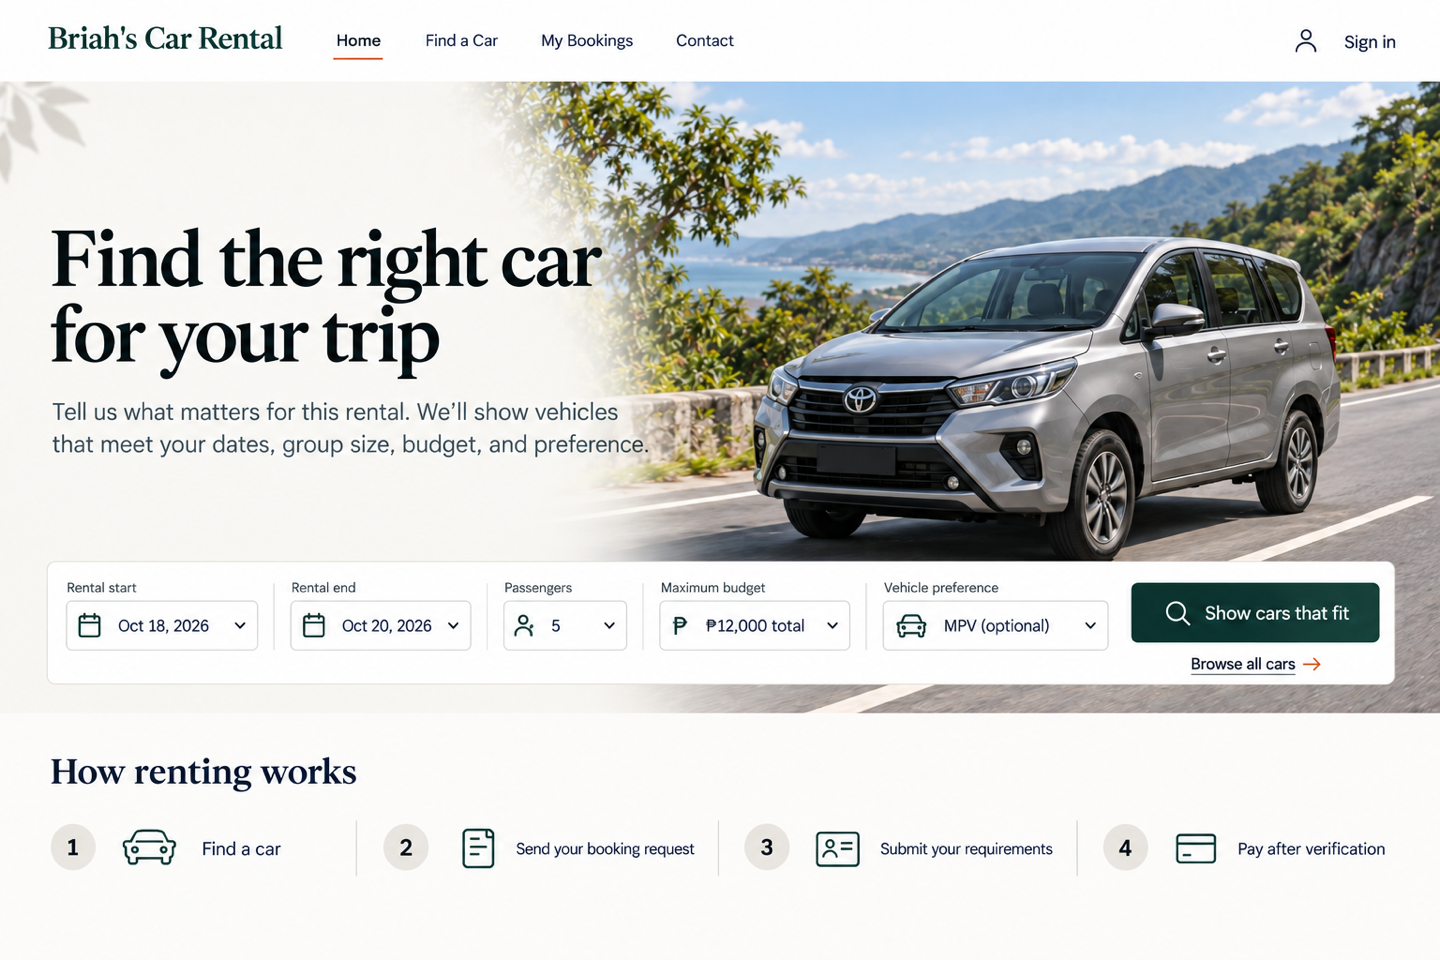
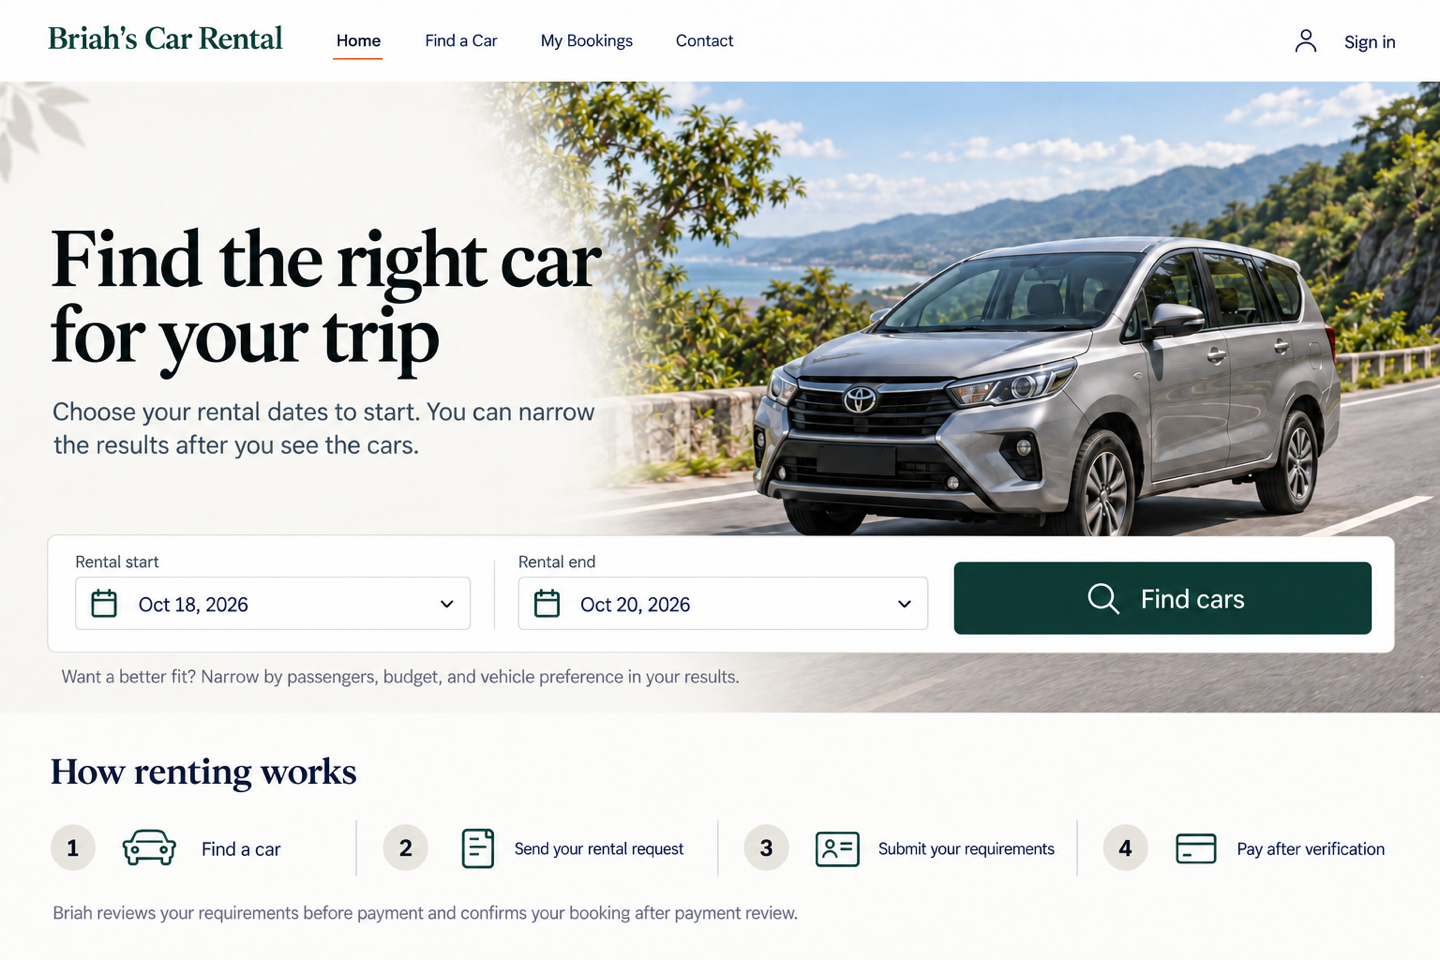
design: finalize Direction E customer refinements

diff --git a/frontend-stabilization/DIRECTION-E-DESIGN-SYSTEM.md b/frontend-stabilization/DIRECTION-E-DESIGN-SYSTEM.md
@@ -12,6 +12,46 @@ The system earns confidence through proportion, typography, photography, whitesp
 
 The one expressive move is the photographic vehicle/road window. Controls and task flows remain familiar, restrained, and implementation-clear.
 
+### Customer request terminology
+
+Before canonical confirmation, use `Rental request`, `Request submitted`, `Your rental request`, or `Continue your request`. The existence of the canonical booking/request record must not be presented as a completed or confirmed booking.
+
+After canonical confirmation, use `Booking confirmed` or `Confirmed booking`. Confirmation remains a later customer milestone after requirements verification and payment review.
+
+The full customer-facing presentation is:
+
+`Find a car → choose vehicle / trip → submit rental request → complete requirements → Briah reviews requirements → requirements verified → submit required payment → payment review → booking confirmation → rental → return`
+
+This is a presentation contract only. It does not change when the backend creates the canonical booking/request record.
+
+### Homepage progressive disclosure
+
+Primary discovery asks for the minimum trip context first: `Rental start` and `Rental end`. Pickup area/branch may join this first step only if a future Lead-approved canonical contract makes it required; it is not a current Finder criterion.
+
+Passengers, maximum total base-rental budget, and vehicle preference belong to optional refinement on Find a Car/results where the canonical Finder supports them. They must not be required in the Home hero before a customer can see vehicles.
+
+### Customer reference identifiers
+
+Internal-looking booking/request references must not dominate customer task screens. The Requirements summary prioritizes vehicle, rental dates, pickup/return location where useful, and current request stage. A canonically useful customer reference may appear only in low-priority `Booking details` or help/support context.
+
+### Recommendation terminology
+
+Customer-facing language names the outcome: `Find the right car for your trip`, `Cars that fit your trip`, `Narrow your results`, and `Help me find a better fit`.
+
+Technical/manuscript terminology may remain `Smart Vehicle Finder` or `Customer-Side Vehicle Recommendation`. Do not expose AI, intelligence, algorithm, engine, or match-percentage language to customers.
+
+### Direct browse behavior
+
+Do not place a detached `Browse all cars` link beneath the Home hero CTA. Direct fleet browsing remains discoverable through the primary navigation item `Find a Car` and may also appear later as a composed `Browse vehicles` or `View all vehicles` action where it does not compete with `Find cars`.
+
+### Journey terminology
+
+The customer-facing macro journey is fixed:
+
+`Request → Requirements → Payment → Confirmation → Rental → Return`
+
+The completed first-stage copy is `Request submitted`. It never means `Booking confirmed`.
+
 ## 2. Branding boundaries
 
 Keep these layers separate:
@@ -156,7 +196,7 @@ Borders, surface contrast, and whitespace should do most structural work. Never 
 - Solid Evergreen background with white text.
 - Minimum height 48 px; minimum target 44 × 44 px.
 - 16–24 px horizontal padding depending on label length.
-- Specific verb phrase: `Show cars that fit`, `View car`, `Review documents`.
+- Specific verb phrase: `Find cars`, `View car`, `Review documents`.
 - Hover darkens the fill; active changes fill/elevation without changing bounds.
 
 ### Secondary
@@ -187,22 +227,16 @@ For Finder: use date-time controls for start/end, integer input for passengers, 
 
 ## 13. Search controls
 
-Home supports two explicit paths:
-
-1. **Guided:** `Find the right car for your trip` with `Show cars that fit`.
-2. **Direct:** `Browse all cars`.
-
-The compact Home Finder contains:
+Home begins guided discovery with `Find the right car for your trip` and one dominant `Find cars` action. Its compact search rail contains only:
 
 - Rental start — required.
-- Rental end — required.
-- Passengers — required, whole number 1–100.
-- Maximum budget — required, clearly described as total base-rental budget.
-- Vehicle preference — optional active category.
+- Rental end — required and after start.
 
 Do not include pickup area as a Finder criterion. Destination may appear only in an expanded/full Finder with the explicit note that it is captured for requirements and does not change baseline recommendations. Do not hide this limitation in a tooltip.
 
-On results, show a compact trip summary and `Change trip`. Store filter/search state in the URL where feasible so refresh, back, and deep links remain predictable. Results must preserve direct browsing and never relax hard criteria silently.
+On Find a Car/results, optional refinement may expose canonically supported passenger count, maximum total base-rental budget, and active vehicle category/preference. Use outcome-oriented invitations such as `Narrow your results` or `Help me find a better fit`. These refinements may invoke the canonical recommendation capability, but the Home hero must not feel like a questionnaire.
+
+Show a compact trip/refinement summary and `Change trip` where the Finder is active. Store filter/search state in the URL where feasible so refresh, back, and deep links remain predictable. Results must preserve direct browsing and never relax hard criteria silently.
 
 ## 14. Navigation
 
@@ -275,9 +309,10 @@ Never show a match percentage, AI endorsement, unexplained `best match`, or avai
 
 Customer lifecycle order is fixed:
 
-`Booking → Requirements → Payment → Confirmation → Rental → Return`
+`Request → Requirements → Payment → Confirmation → Rental → Return`
 
 - Render as an ordered list/stepper with complete, current, locked, and pending semantics.
+- The completed first stage reads `Request submitted`; it must never read `Booking completed` or imply `Booking confirmed`.
 - Each stage has a text label; complete/current/locked adds icon and/or explicit state copy.
 - Current step uses `aria-current="step"` in implementation.
 - Locked Payment must explain that requirements verification comes first.
@@ -320,7 +355,7 @@ Use dashed boundaries only for the functional file target. Support keyboard file
 
 Customer can upload/submit/resubmit their own requirements. Owner/Admin review authority must not leak into this customer pattern.
 
-## 23. Booking summary
+## 23. Customer request summary
 
 Use one restrained summary surface containing:
 
@@ -328,10 +363,12 @@ Use one restrained summary surface containing:
 - rental dates;
 - pickup/return branch/location when canonical;
 - canonical rate/total only when available and trustworthy;
-- booking reference;
-- one link to booking details when a route exists.
+- current request stage;
+- one link to request/booking details when a route exists.
 
 Facts are aligned in one scan path with quiet dividers. Location appears as a labelled value, not background artwork. On mobile, the summary follows the primary task unless persistent context is needed; it must not push the current action below avoidable decoration.
+
+Do not place an internal-looking reference ID in the primary summary hierarchy. If canonically useful to the customer, keep it inside low-priority details or support context.
 
 ## 24. Loading states
 
@@ -381,7 +418,7 @@ Validate at 375, 768, 1024, and 1440 px plus 200% zoom.
 
 - Desktop: asymmetric copy/photo field with integrated search rail.
 - Tablet: copy and image remain distinct; Finder becomes a two-column form and action spans the row.
-- Mobile: headline 42–48 px, single-column labelled fields, full-width primary action, visible `Browse all cars`, and photography below or behind no essential text.
+- Mobile: headline 42–48 px, single-column labelled date fields, full-width primary action, and photography below or behind no essential text. Direct browsing remains available through navigation rather than a detached hero link.
 - Four rental steps become a compact vertical ordered list; do not squeeze four labels into one clipped row.
 
 ### Find a Car
@@ -465,6 +502,9 @@ The following are explicitly forbidden:
 - location criteria the Finder does not evaluate;
 - silent relaxation of dates, capacity, budget, readiness, or availability;
 - payment-before-verification, automatic approval, instant confirmation, or automatic payment-verification language;
+- `Booking completed` or `Booking confirmed` before the canonical confirmation stage;
+- prominent internal/reference IDs on primary customer task screens;
+- a detached `Browse all cars` link beneath the Home hero CTA;
 - emoji controls, unlabeled icon buttons, placeholder-only fields, hidden focus rings, or color-only state;
 - inconsistent vehicle image ratios, invented rates/facts, or unlicensed production photography;
 - decorative micro-labels, all-caps eyebrows, technical system jargon, or filler metadata;

diff --git a/frontend-stabilization/DIRECTION-E-FINAL-REFINEMENTS.md b/frontend-stabilization/DIRECTION-E-FINAL-REFINEMENTS.md
@@ -1,0 +1,120 @@
+# Direction E Final Refinements
+
+**Issue:** GitHub #63
+
+**Branch:** `stabilization/frontend-rebuild`
+
+**Scope:** Lead-authorized customer presentation refinements only; no application implementation
+
+## Lead decisions applied
+
+- Preserved Direction E — Premium Familiar Mobility as the approved customer direction.
+- Kept the refined evergreen/neutral palette, premium attainable-vehicle photography, restrained serif display typography, readable sans-serif task typography, familiar controls, restrained surfaces, and location-neutral product shell.
+- Reduced Home's first interaction to the minimum trip context and kept recommendation criteria available later through progressive disclosure.
+- Separated a submitted rental request from a canonically confirmed booking in customer-facing copy.
+- Kept Requirements after canonical request/booking-record creation and before Payment.
+- Removed the internal-looking reference ID from the primary Requirements hierarchy.
+- Kept direct fleet browsing discoverable without placing a competing link beneath the hero CTA.
+- Left Find a Car, Admin, and mobile artifacts unchanged.
+
+## Customer lifecycle terminology
+
+| Context | Previous wording | Revised wording | Reason |
+| --- | --- | --- | --- |
+| Macro journey | `Booking → Requirements → Payment → Confirmation → Rental → Return` | `Request → Requirements → Payment → Confirmation → Rental → Return` | The initial canonical record represents a request, not confirmation. |
+| Completed first stage | `Booking completed` | `Request submitted` | Submission confirms receipt of the request only. |
+| Pre-confirmation object | `Booking` / `Booking summary` | `Rental request` / `Your rental request` / `Continue your request` | Customer language must not overstate lifecycle state. |
+| Later canonical outcome | Ambiguous use of booking language | `Booking confirmed` / `Confirmed booking` only after canonical confirmation | Confirmation remains a distinct later milestone after requirements verification and payment review. |
+
+The final customer-facing presentation is:
+
+`Find a car → choose vehicle / trip → submit rental request → complete requirements → Briah reviews requirements → requirements verified → submit required payment → payment review → booking confirmation → rental → return`
+
+## Homepage progressive disclosure
+
+Removed from the initial Home interaction:
+
+- passenger count;
+- maximum total base-rental budget;
+- vehicle preference/category.
+
+Retained in the initial Home interaction:
+
+- Rental start;
+- Rental end;
+- one dominant `Find cars` action.
+
+Pickup area/branch is not shown because it is not a current canonical Finder criterion. Optional recommendation criteria now appear on Find a Car/results through the existing trip summary, category controls, and `Filters` entry. Home includes only quiet explanatory text that customers can narrow results after seeing vehicles.
+
+## Recommendation capability preserved
+
+The customer-side Finder remains available; it is revealed when it becomes useful instead of front-loading a questionnaire. Home establishes dates and starts discovery. Find a Car/results can then invite customers to narrow results by canonically supported passenger count, maximum total base-rental budget, and vehicle preference/category.
+
+Customer copy names the outcome: `Find the right car for your trip`, `Cars that fit your trip`, `Narrow your results`, and `Help me find a better fit`. `Smart Vehicle Finder` and `Customer-Side Vehicle Recommendation` remain technical/manuscript terms only. No AI, intelligence, algorithm, engine, or match percentage is exposed.
+
+The existing Find a Car desktop reference was reviewed and intentionally retained. Its Filters control and supported trip criteria already demonstrate optional refinement, so a new image was not needed.
+
+## Requirements hierarchy refinement
+
+The Requirements screen retains the approved task flow:
+
+`Before you start → Upload documents → Review → Send for verification`
+
+The macro journey above it now starts with `Request submitted`, makes Requirements visibly current, and keeps Payment visibly later and locked. The right-side `Rental request` summary prioritizes Toyota Vios, rental dates, pickup branch, and `Current stage: Requirements`.
+
+The prominent `CR-2026-104` reference was removed from the breadcrumb and primary summary. If a customer-facing reference remains canonically useful, it belongs only in low-priority request/booking details or help/support context.
+
+## Browse-all refinement
+
+The detached `Browse all cars` link beneath the hero CTA was removed. Direct fleet browsing remains discoverable through the persistent `Find a Car` item in primary navigation. A future later-page `Browse vehicles` or `View all vehicles` action is acceptable only when composed within a relevant vehicle section and subordinate to the hero's `Find cars` action.
+
+## Backend/domain boundaries preserved
+
+- Request/booking record creation timing was **not changed**.
+- Requirements still follow creation of the canonical request/booking record.
+- Requirements-before-payment remains unchanged.
+- Briah review and requirements verification remain before required payment submission.
+- Confirmation remains a later stage after payment review.
+- The frontend may continue relying on the existing canonical booking/request record internally.
+- No schema, API, route, status, business-rule, eligibility, ordering, recommendation, payment, or verification change was made.
+
+## Visual artifacts updated
+
+Regenerated from the approved Direction E references and normalized to 1440 × 960:
+
+- `art-directions/DIRECTION-E/HOME/home-desktop-1440.png`
+- `art-directions/DIRECTION-E/REQUIREMENTS/requirements-desktop-1440.png`
+
+Not regenerated:
+
+- Find a Car — the existing desktop reference already demonstrates optional refinement.
+- Mobile — the desktop corrections do not reveal an undocumented responsive conflict.
+- Admin — outside this refinement scope.
+
+## Self-critique gate
+
+### Home
+
+- Pass — the renter sees two date fields and one clear `Find cars` action.
+- Pass — passenger count, budget, and preference no longer block initial exploration.
+- Pass — quiet helper copy and the Find a Car results pattern keep recommendation discoverable.
+- Pass — the primary CTA is visually dominant and has no detached competing link.
+- Pass — the automotive photograph, serif/sans hierarchy, whitespace, and evergreen/neutral language preserve the premium character.
+
+### Requirements
+
+- Pass — `Request submitted` is visibly distinct from later `Confirmation`.
+- Pass — Requirements is clearly the current macro stage and Upload documents is the current task step.
+- Pass — Payment is later, locked, and explained by the review sequence.
+- Pass — the internal-looking reference ID is absent from the primary hierarchy.
+- Pass — the upload task and `Review documents` action remain dominant.
+
+### System
+
+- Pass — changes preserve Direction E rather than introduce a new art direction.
+- Pass — all changes are presentation/documentation-only.
+- Pass — no visual copy implies a changed backend lifecycle, instant confirmation, or payment before requirements verification.
+
+## Final freeze recommendation
+
+**DIRECTION E READY TO FREEZE**

diff --git a/frontend-stabilization/art-directions/DIRECTION-E/README.md b/frontend-stabilization/art-directions/DIRECTION-E/README.md
@@ -29,7 +29,7 @@ The selected image-to-code combination is:
 Direction E separates three layers:
 
 1. **Business identity:** operator name, approved logo, approved brand colors, and legitimate contact information. The current concept uses Briah's Car Rental.
-2. **Operational data:** branch, pickup/return location, vehicle, dates, rates, and booking reference. `Antipolo branch` may appear where it is a real example value.
+2. **Operational data:** branch, pickup/return location, vehicle, dates, rates, and a support/reference identifier where it is genuinely useful. `Antipolo branch` may appear where it is a real example value; internal-looking identifiers do not belong in the primary customer task hierarchy.
 3. **System visual language:** layout, typography, controls, navigation, spacing, lifecycle, status, and guided flows. This layer is location-neutral.
 
 Operator identity may be replaced at the presentation level without redesigning the shell. This is a design boundary, not multi-tenancy, white-label infrastructure, or a theme-management feature.
@@ -38,9 +38,11 @@ Operator identity may be replaced at the presentation level without redesigning 
 
 ### Home
 
-Home foregrounds the working task `Find the right car for your trip`. Its guided form uses only recommendation criteria that affect current matching: rental start, rental end, passengers, maximum total base-rental budget, and optional vehicle preference. `Show cars that fit` is primary; `Browse all cars` preserves the direct-browse path. The compact four-step explanation ends with `Pay after verification`.
+Home foregrounds the working task `Find the right car for your trip`. Its first interaction asks only for rental start and rental end, then uses one dominant `Find cars` action. Passenger count, maximum total base-rental budget, and vehicle preference remain available as optional refinement on Find a Car/results. Quiet helper copy makes that capability discoverable without turning the hero into a questionnaire.
 
-Pickup area is intentionally absent from the Finder entry because it is not a canonical Finder criterion. Optional destination is also omitted from this compact entry because it is captured by the backend but does not affect baseline eligibility or ranking.
+Pickup area is intentionally absent because it is not a canonical Finder criterion. Optional destination is also omitted because it is captured by the backend but does not affect baseline eligibility or ranking. Direct browsing remains available through the header's `Find a Car` navigation item; no detached browse link competes beneath the hero CTA.
+
+The compact explanation uses `Find a car → Send your rental request → Submit your requirements → Pay after verification` and states that booking confirmation follows payment review.
 
 ### Find a Car
 
@@ -48,9 +50,11 @@ The results screen keeps the approved marketplace model: trip context, category 
 
 `Cars that fit your trip` is used only for evaluated Finder results. Each example card exposes one quiet, canonical reason such as `Available for your selected dates`, `Seats your group of 5`, or `Within your maximum base-rental budget`. No score, AI label, or unsupported availability claim is present.
 
+This existing reference remains unchanged in the final refinement because it already shows the supported optional criteria and a clear `Filters` entry without forcing them into Home.
+
 ### Requirements
 
-The Requirements screen preserves the approved rental journey and task progress without redesign. The booking summary uses a vehicle image, booking facts, restrained surface treatment, and whitespace. `Pickup: Antipolo branch` remains only as example booking data; all city artwork and slogans are removed.
+The Requirements screen preserves the approved task flow without redesign. Its macro journey now reads `Request → Requirements → Payment → Confirmation → Rental → Return`; the first stage says `Request submitted`, Requirements is current, and Payment is visibly locked. The request summary prioritizes vehicle, dates, operational pickup, and current stage. The former prominent reference ID is absent and may exist only in low-priority details/support context if canonically useful.
 
 ## Visual rules
 
@@ -72,9 +76,9 @@ Do not:
 
 ## Image-first production
 
-Each screen was generated and inspected as a standalone high-fidelity raster reference. Home was regenerated to integrate the canonical recommendation path. Find a Car and Requirements were minimally regenerated to remove permanent Antipolo identity while preserving the approved composition and flows. The accepted outputs were inspected at original resolution for text, hierarchy, spacing, controls, imagery, state treatment, and cross-screen consistency, then normalized to exactly 1440 × 960.
+Each screen was generated and inspected as a standalone high-fidelity raster reference. In this final refinement, Home and Requirements were regenerated from their approved Direction E references, inspected at original resolution, and normalized to exactly 1440 × 960. Find a Car was deliberately not regenerated because its existing Filters and trip-criteria treatment already demonstrate the optional refinement model. No mobile or Admin artifact was generated.
 
-See `../../DIRECTION-E-FINAL-REVIEW.md` for the final review and `../../DIRECTION-E-DESIGN-SYSTEM.md` for the proposed implementation contract.
+See `../../DIRECTION-E-FINAL-REFINEMENTS.md` for the Lead-approved correction record and `../../DIRECTION-E-DESIGN-SYSTEM.md` for the proposed implementation contract.
 
 ## Implementation boundary
 

diff --git a/frontend-stabilization/README.md b/frontend-stabilization/README.md
@@ -7,7 +7,8 @@
 
 ## Current customer visual freeze candidate
 
-- Final review: `DIRECTION-E-FINAL-REVIEW.md`
+- Final customer refinements: `DIRECTION-E-FINAL-REFINEMENTS.md`
+- Prior final review: `DIRECTION-E-FINAL-REVIEW.md`
 - Proposed visual implementation contract: `DIRECTION-E-DESIGN-SYSTEM.md`
 - Final Home, Find a Car, and Requirements references: `art-directions/DIRECTION-E/`
 

diff --git a/frontend-stabilization/DIRECTION-E-FINAL-REVIEW.md b/frontend-stabilization/DIRECTION-E-FINAL-REVIEW.md
@@ -1,5 +1,6 @@
 # Direction E Final Review
 
+**Status:** Superseded by `DIRECTION-E-FINAL-REFINEMENTS.md` for the final customer terminology and progressive-disclosure corrections.
 **Review date:** 2026-09-13
 **Scope:** Customer visual references and proposed visual implementation contract only
 **Branch:** `stabilization/frontend-rebuild`

diff --git a/frontend-stabilization/DIRECTION-E-REVIEW.md b/frontend-stabilization/DIRECTION-E-REVIEW.md
@@ -6,6 +6,7 @@ Direction E remains the preferred customer-facing direction, but the original re
 
 The accepted final refinements are documented in:
 
+- `DIRECTION-E-FINAL-REFINEMENTS.md`
 - `DIRECTION-E-FINAL-REVIEW.md`
 - `DIRECTION-E-DESIGN-SYSTEM.md`
 - `art-directions/DIRECTION-E/README.md`
